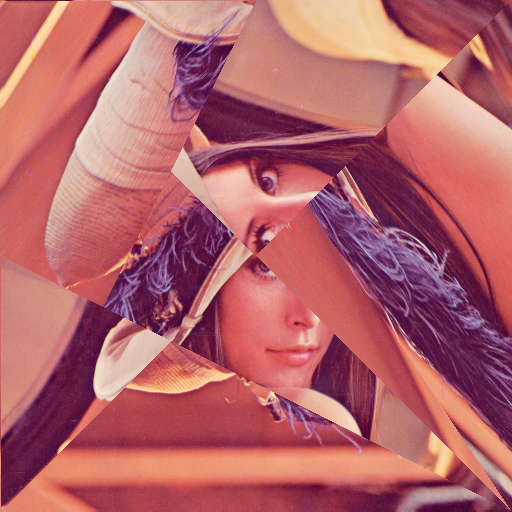
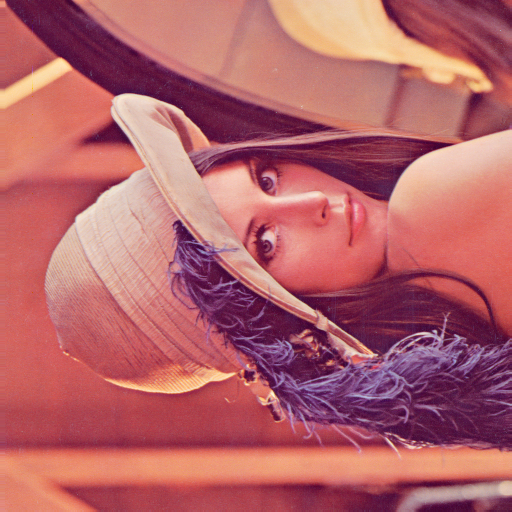
Working version

diff --git a/1_7/rotate_matrix.h b/1_7/rotate_matrix.h
@@ -14,9 +14,9 @@ public:
             {
                 int temp = image[layer * width + i];
                 image[layer * width + i] = image[i * width + last];
-                image[i * width + last] = image[last * width + (last - i)];
-                image[last * width + (last - i)] = image[(last - i) * width + layer];
-                image[(last - i) * width + layer] = temp;
+                image[i * width + last] = image[last * width + (last - i + first)];
+                image[last * width + (last - i + first)] = image[(last - i + first) * width + layer];
+                image[(last - i + first) * width + layer] = temp;
             }
         }
     }
